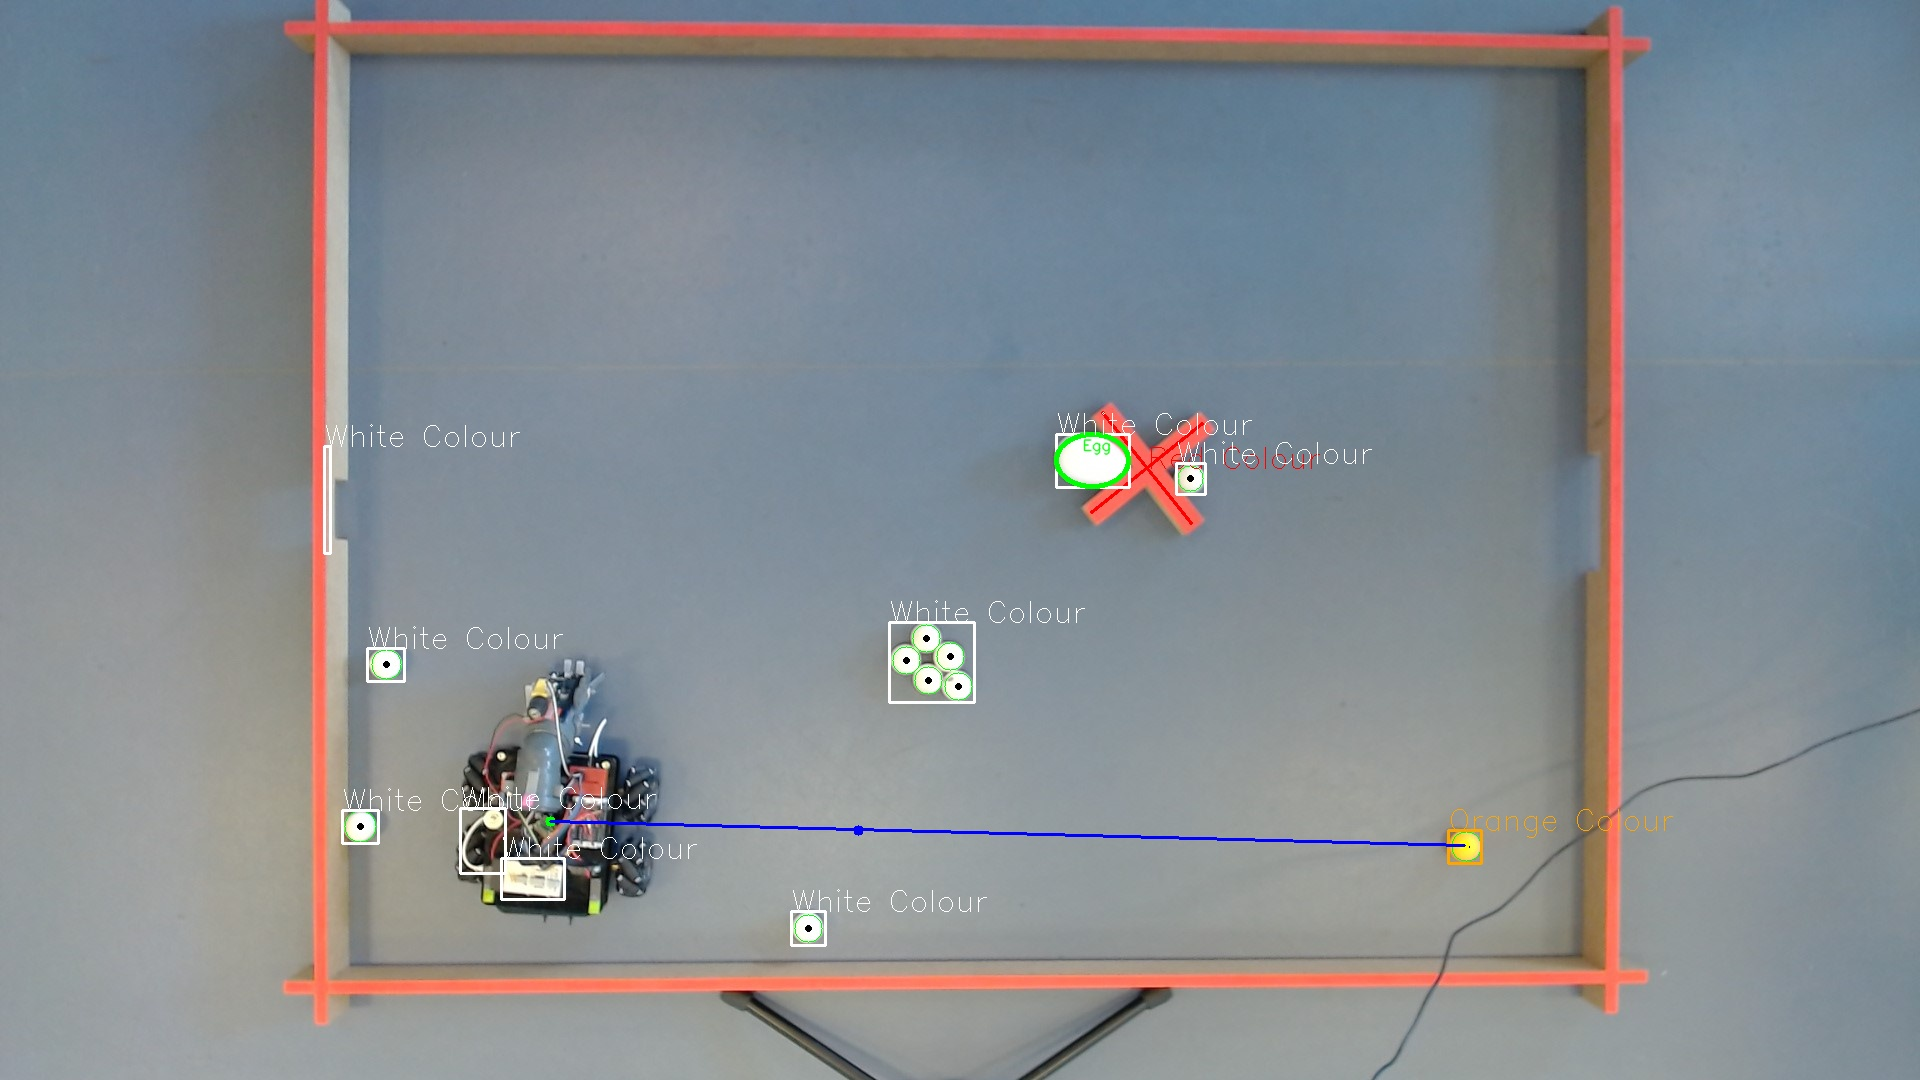
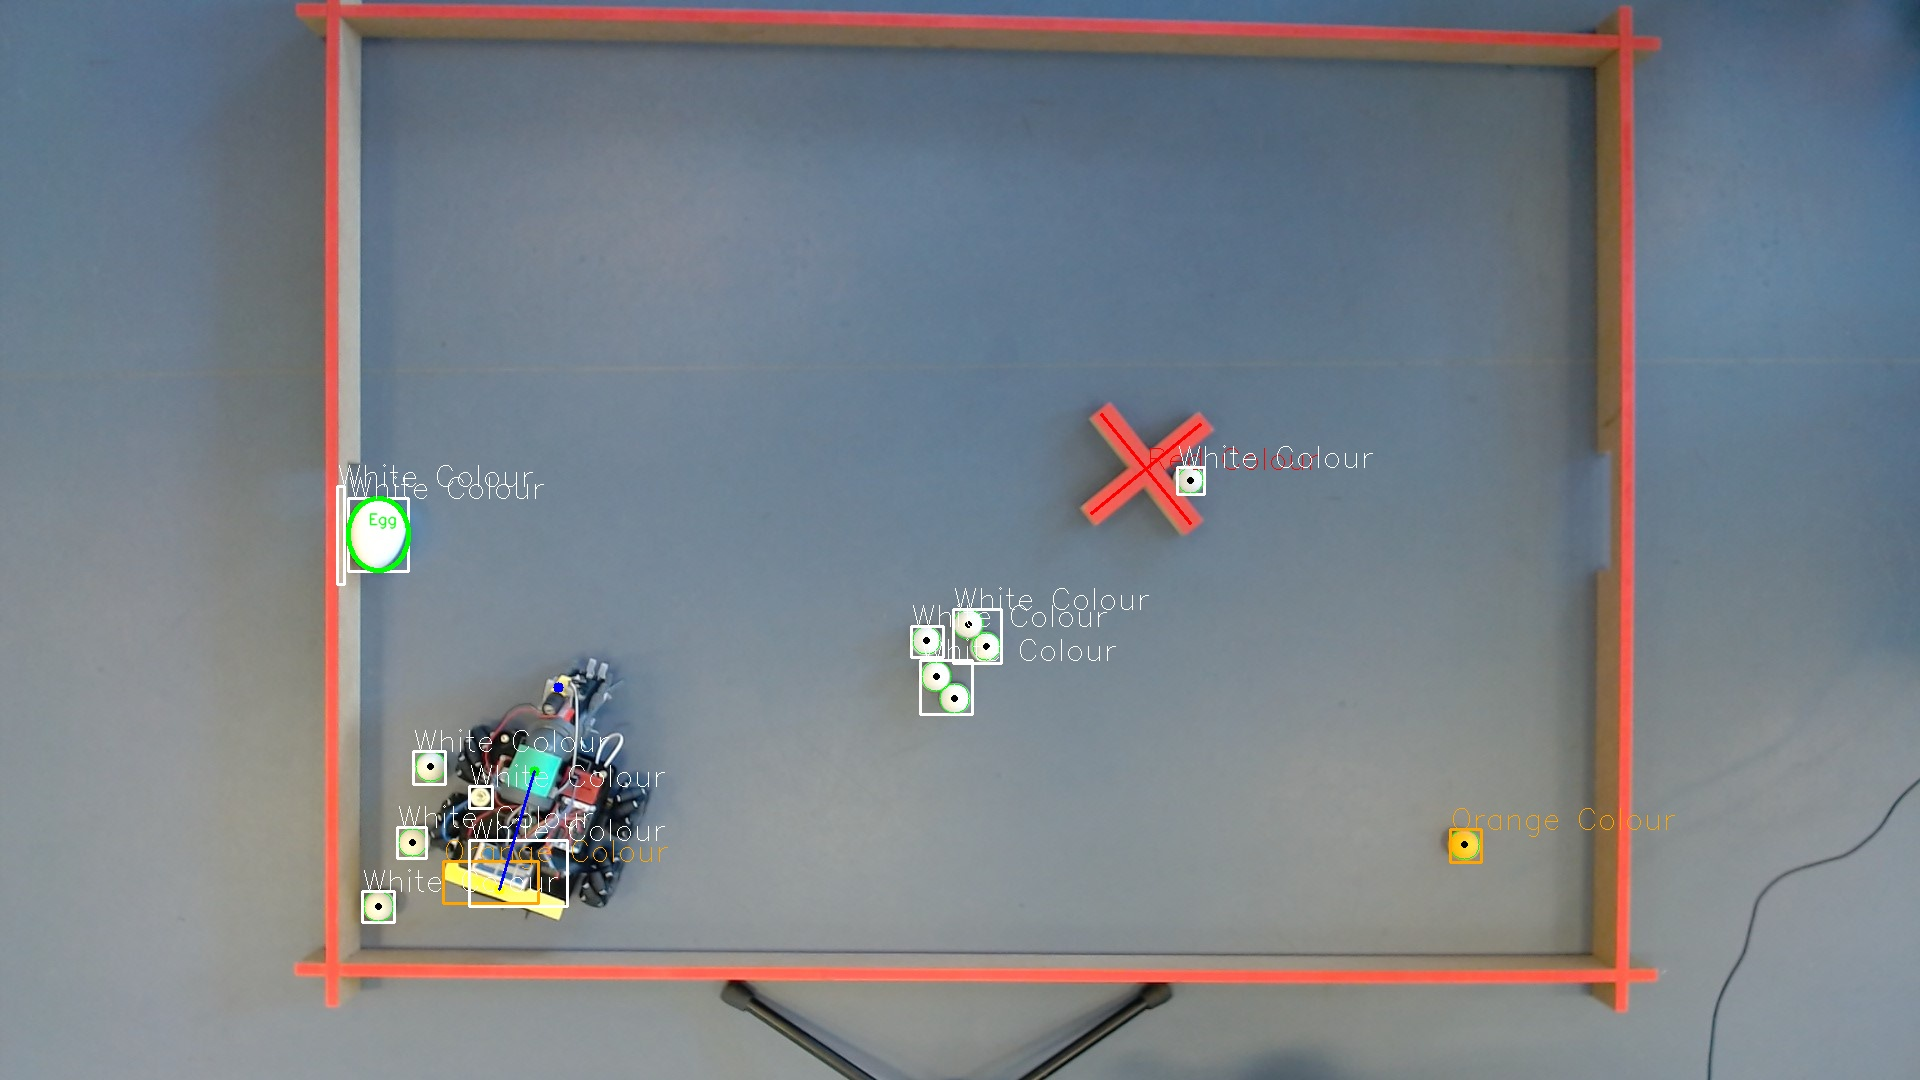
hej

diff --git a/picture/image_detection.py b/picture/image_detection.py
@@ -15,91 +15,6 @@ import argparse
 from skimage import exposure
 import json
 
-# def egg_draw(image, x, y, w, h, area):
-#     #https://www.geeksforgeeks.org/python-opencv-cv2-ellipse-method/
-#     # Calculate center coordinates 
-#     center_coordinates = (x + w//2, y + h//2)
-    
-#     # Define axes length
-#     axesLength = (w//2, h//2)
- 
-#     # Ellipse parameters
-#     angle = 0
-#     startAngle = 0
-#     endAngle = 360
-    
-#     # Draw the ellipse on the image
-#     image = cv2.ellipse(image, center_coordinates, axesLength, 
-#                         angle, startAngle, endAngle, (0, 255, 0), 3)
-    
-#     # Put text 'Egg' near the detected egg
-#     cv2.putText(image, 'Egg', (center_coordinates[0] - 10, center_coordinates[1] - 10),
-#                 cv2.FONT_HERSHEY_SIMPLEX, 0.5, (0, 255, 0), 1, cv2.LINE_AA)
-#     return image
-
-
-# def circle_detection(image):
-#     # Convert to grayscale
-#     gray = cv2.cvtColor(image, cv2.COLOR_BGR2GRAY)
-
-#     # Apply a blur
-#     """ 
-#     *Parameter one, gray, is the source image converted to grayscale. 
-#     Making the algorithms that operate on the image computationally less intensive.
-
-#     **Parameter two and three is the kernel size. Which determines the width and height of the Gaussian filter. 
-#     A kernel size of (9, 9) means that the filter window is 9 pixels by 9 pixels. 
-#     The larger the kernel, the stronger the blur effect.
-    
-#     ***The standard deviation in the X and Y directions; when set to 0, it is calculated from the kernel size. 
-#     A higher value for standard deviation means more blur.
-#     """
-#     gray_blurred = cv2.GaussianBlur(gray, (9, 9), 0)  
-
-    
-#     # Perform Hough Circle Transform (Detect circles)
-#     """
-#     *cv2.HOUGH_GRADIENT, this method is the only one available for circle detection in OpenCV and uses the gradient information of the image.
-    
-#     **dp=1 means the accumulator has the same resolution as the input image. 
-#     If dp is greater, the accumulator resolution is reduced, and vice versa.
-   
-#     ***minDist=40: The minimum distance between the centers of detected circles.
-    
-#     ****param1=50: The higher threshold of the two passed to the Canny edge detector (the lower one is half of this). It's used in the edge detection stage.
-
-#     *****param2=30: The accumulator threshold for the circle centers at the detection stage. 
-#     The smaller it is, the more false circles may be detected. Circles with an accumulator value above this threshold are returned.
-
-#     ******minRadius= and maxRadius=: The minimum and maximum radius of the circles to be detected.
-#     """
-#     circles = cv2.HoughCircles(gray_blurred, cv2.HOUGH_GRADIENT, dp=1, minDist=40,
-#                                param1=50, param2=28, minRadius=10, maxRadius=20) #minRadius=5, maxRadius=20
-
-#   ##
-#      # List to store circle data
-#     stored_circles = []
-#      # Filter out the circles that correspond to the ping pong balls
-#     if circles is not None:
-#         circles = np.uint16(np.around(circles))
-#         for i in circles[0, :]:
-#             x, y, r = i[0], i[1], i[2]  # x, y center and radius of circle
-            
-#             # Draw the outer circle
-#             cv2.circle(image, (x, y), r, (0, 255, 0), 2)
-#             # Draw the center of the circle
-#             cv2.circle(image, (x, y), 2, (0, 0, 0), 2)
-            
-#             # Put text 'Ball' near the detected ball
-#             cv2.putText(image, 'Ball', (x - r, y - r),
-#                         cv2.FONT_HERSHEY_SIMPLEX, 0.5, (0, 255, 0), 1, cv2.LINE_AA)
-            
-#             # Store the circles data
-#             stored_circles.append({'center': (x, y), 'radius': r, 'label': 'Ball'})
-
-#     save_balls(stored_circles)
-#     return image, stored_circles
-
 
 
 # Function to check if a point is within any detected orange region
@@ -647,127 +562,6 @@ def match_circles_and_contours(image, contours):
 
     return image, matched_circles
 
-
-# def circle_detection(image):
-#     # Convert to grayscale
-#     gray = cv2.cvtColor(image, cv2.COLOR_BGR2GRAY)
-#     # Apply a blur
-#     """ 
-#     *Parameter one, gray, is the source image converted to grayscale. 
-#     Making the algorithms that operate on the image computationally less intensive.
-#     **Parameter two and three is the kernel size. Which determines the width and height of the Gaussian filter. 
-#     A kernel size of (9, 9) means that the filter window is 9 pixels by 9 pixels. 
-#     The larger the kernel, the stronger the blur effect.
-    
-#     ***The standard deviation in the X and Y directions; when set to 0, it is calculated from the kernel size. 
-#     A higher value for standard deviation means more blur.
-#     """
-#     gray_blurred = cv2.GaussianBlur(gray, (9, 9), 0)  
-#     # cv2.imshow('Detected Balls', gray_blurred)
-    
-#     # Perform Hough Circle Transform (Detect circles)
-#     """
-#     *cv2.HOUGH_GRADIENT, this method is the only one available for circle detection in OpenCV and uses the gradient information of the image.
-    
-#     **dp=1 means the accumulator has the same resolution as the input image. 
-#     If dp is greater, the accumulator resolution is reduced, and vice versa.
-   
-#     ***minDist=40: The minimum distance between the centers of detected circles.
-    
-#     ****param1=50: The higher threshold of the two passed to the Canny edge detector (the lower one is half of this). It's used in the edge detection stage.
-#     *****param2=30: The accumulator threshold for the circle centers at the detection stage. 
-#     The smaller it is, the more false circles may be detected. Circles with an accumulator value above this threshold are returned.
-#     ******minRadius= and maxRadius=: The minimum and maximum radius of the circles to be detected.
-#     """
-
-#     #mindist=18
-#     circles = cv2.HoughCircles(gray_blurred, cv2.HOUGH_GRADIENT, dp=1, minDist=18, 
-#                                param1=50, param2=24, minRadius=12, maxRadius=17) #minRadius=5, maxRadius=20 , param2= 28 ORIG
-#   ##
-#      # List to store circle data
-#     stored_circles = []
-#      # Filter out the circles that correspond to the ping pong balls
-#     if circles is not None:
-#         circles = np.uint16(np.around(circles))
-#         for i in circles[0, :]:
-#             x, y, r = i[0], i[1], i[2]  # x, y center and radius of circle
-            
-#             # Draw the outer circle
-#             cv2.circle(image, (x, y), r, (0, 255, 0), 1) #2
-#             # Draw the center of the circle
-#             cv2.circle(image, (x, y), 2, (0, 0, 0), 2)
-            
-#             # Put text 'Ball' near the detected ball
-#             # cv2.putText(image, 'Ball', (x - r, y - r),
-#             #             cv2.FONT_HERSHEY_SIMPLEX, 0.5, (0, 255, 0), 1, cv2.LINE_AA)
-            
-#             # print(f"'center': {x, y}, 'radius': {r}")
-#             # Store the circles data
-#             stored_circles.append({'center': (x, y), 'radius': r, 'label': 'Ball'})
-#             save_balls(stored_circles)
-#     # with open('stored_circles.json', 'w') as file:
-#     #     json.dump(stored_circles, file, indent=4)
-#     # Display the result
-#     # cv2.imshow('Detected Balls', image)
-#     return image, stored_circles
-#     # return image
-#   ##
-#     #cv2.waitKey(0)
-#     #cv2.destroyAllWindows()
-
-#     ################################
-
-#     # # Convert to grayscale
-#     # gray = cv2.cvtColor(image, cv2.COLOR_BGR2GRAY)
-#     # cv2.imshow('gray', gray)
-#     # # Blur using 3 * 3 kernel
-#     # gray_blurred = cv2.blur(gray, (3, 3))
-#     # cv2.imshow('gray blurred', gray_blurred)
-#     # # Apply Hough transform on the blurred image
-#     # detected_circles = cv2.HoughCircles(gray_blurred,
-#     #                                     cv2.HOUGH_GRADIENT, 1, 20,
-#     #                                     param1=50, param2=30,
-#     #                                     minRadius=1, maxRadius=40)
-#     # # Draw circles that are detected
-#     # if detected_circles is not None:
-#     #     # Convert the circle parameters a, b and r to integers
-#     #     detected_circles = np.uint16(np.around(detected_circles))
-#     #     for pt in detected_circles[0, :]:
-#     #         a, b, r = pt[0], pt[1], pt[2]
-#     #         # Draw the circumference of the circle
-#     #         cv2.circle(image, (a, b), r, (0, 255, 0), 2)
-#     #         # Draw a small circle (of radius 1) to show the center
-#     #         cv2.circle(image, (a, b), 1, (0, 0, 255), 3)
-#     #         cv2.imshow("Detected Circle", image)
-#     #         cv2.waitKey(0)
-#     # # Close the window when done
-#     # cv2.destroyAllWindows()
-
-# def save_balls(circles, filename="balls.json"):
-#     balls = [(int(circle['center'][0]), int(circle['center'][1])) for circle in circles]
-#     with open(filename, 'w') as file:
-#         json.dump(balls, file, indent=4)
-
-# def saveOrange_balls(balls, filename="orangeballs.json"):
-#     # balls = [(int(circle['center'][0]), int(circle['center'][1])) for circle in circles]
-#     with open(filename, 'w') as file:
-#         json.dump(balls, file, indent=4)
-
-# def saveWhite_balls(balls, filename="whiteballs.json"):
-#     # balls = [(int(circle['center'][0]), int(circle['center'][1])) for circle in circles]
-#     with open(filename, 'w') as file:
-#         json.dump(balls, file, indent=4)
-        
-# def load_balls(filename="balls.json"):
-#     with open(filename, 'r') as file:
-#         balls = json.load(file)
-#     # Convert the list of lists back to a list of tuples
-#     return [tuple(center) for center in balls]
-
-# def print_balls(filename="balls.json"):
-#     balls = load_balls(filename)
-#     for ball in balls:
-#         print(ball)
 
 
 

diff --git a/run.py b/run.py
@@ -48,7 +48,8 @@ def init():
 #     # Ensure the camera is released properly
 #     camera_handler.release_camera()
 
-image = cv2.imread('/home/slothie/fullbranch/CDIO_gruppe_7/extra/test/images/WIN_20240610_14_26_12_Pro.jpg')
+# image = cv2.imread('/home/slothie/fullbranch/CDIO_gruppe_7/extra/test/images/WIN_20240610_14_26_12_Pro.jpg')
+image = cv2.imread('/home/slothie/fullbranch/CDIO_gruppe_7/extra/test/images/WIN_20240610_15_02_15_Pro.jpg')
 transform_and_detect(image)
 
 int
